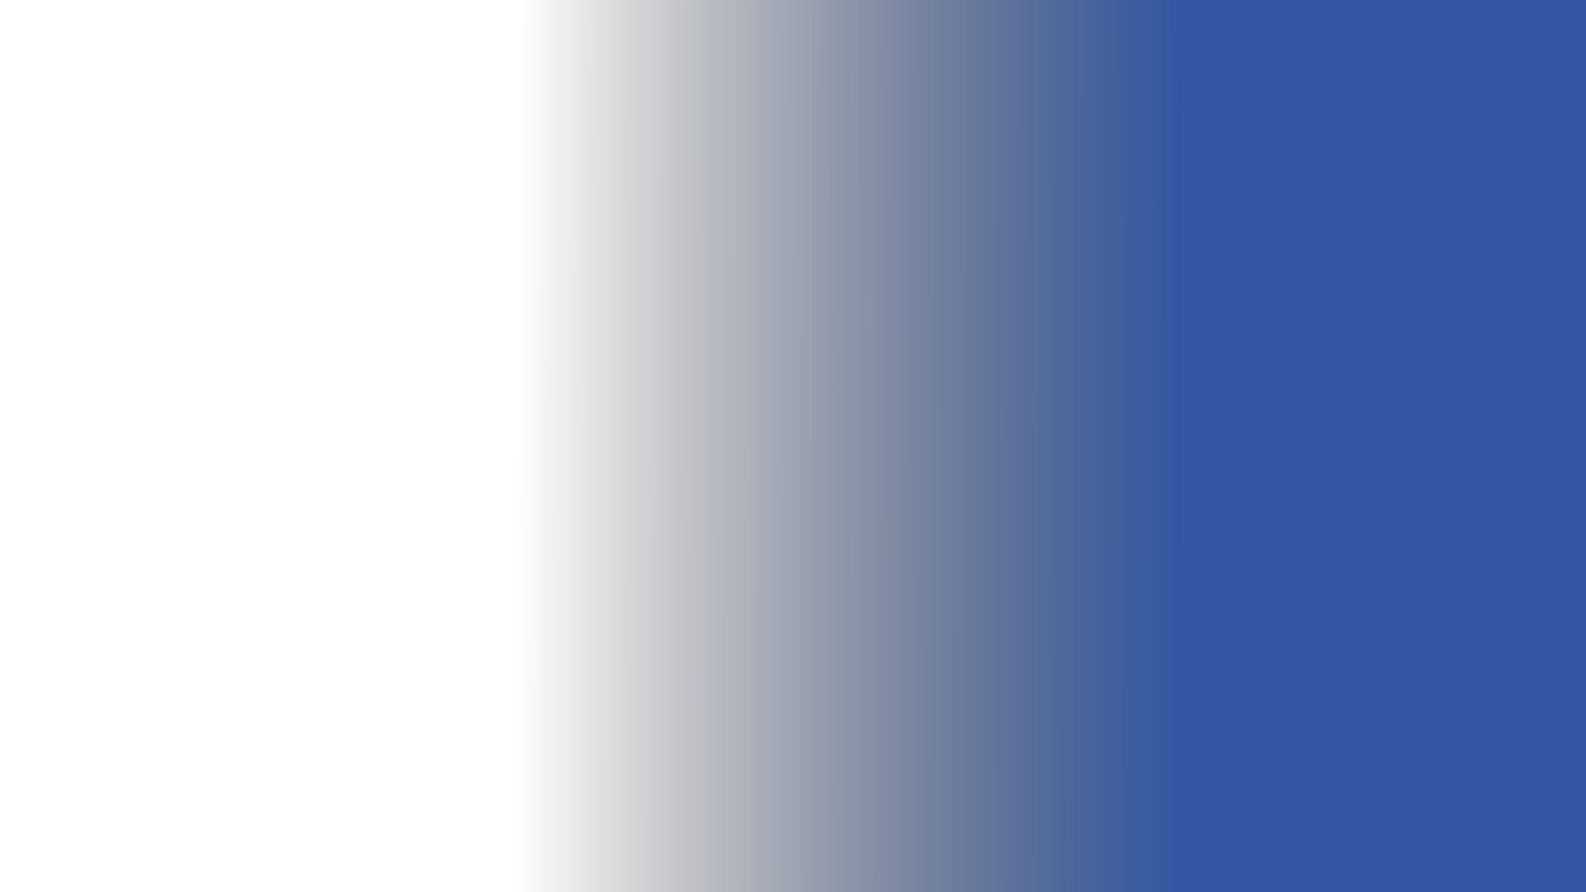
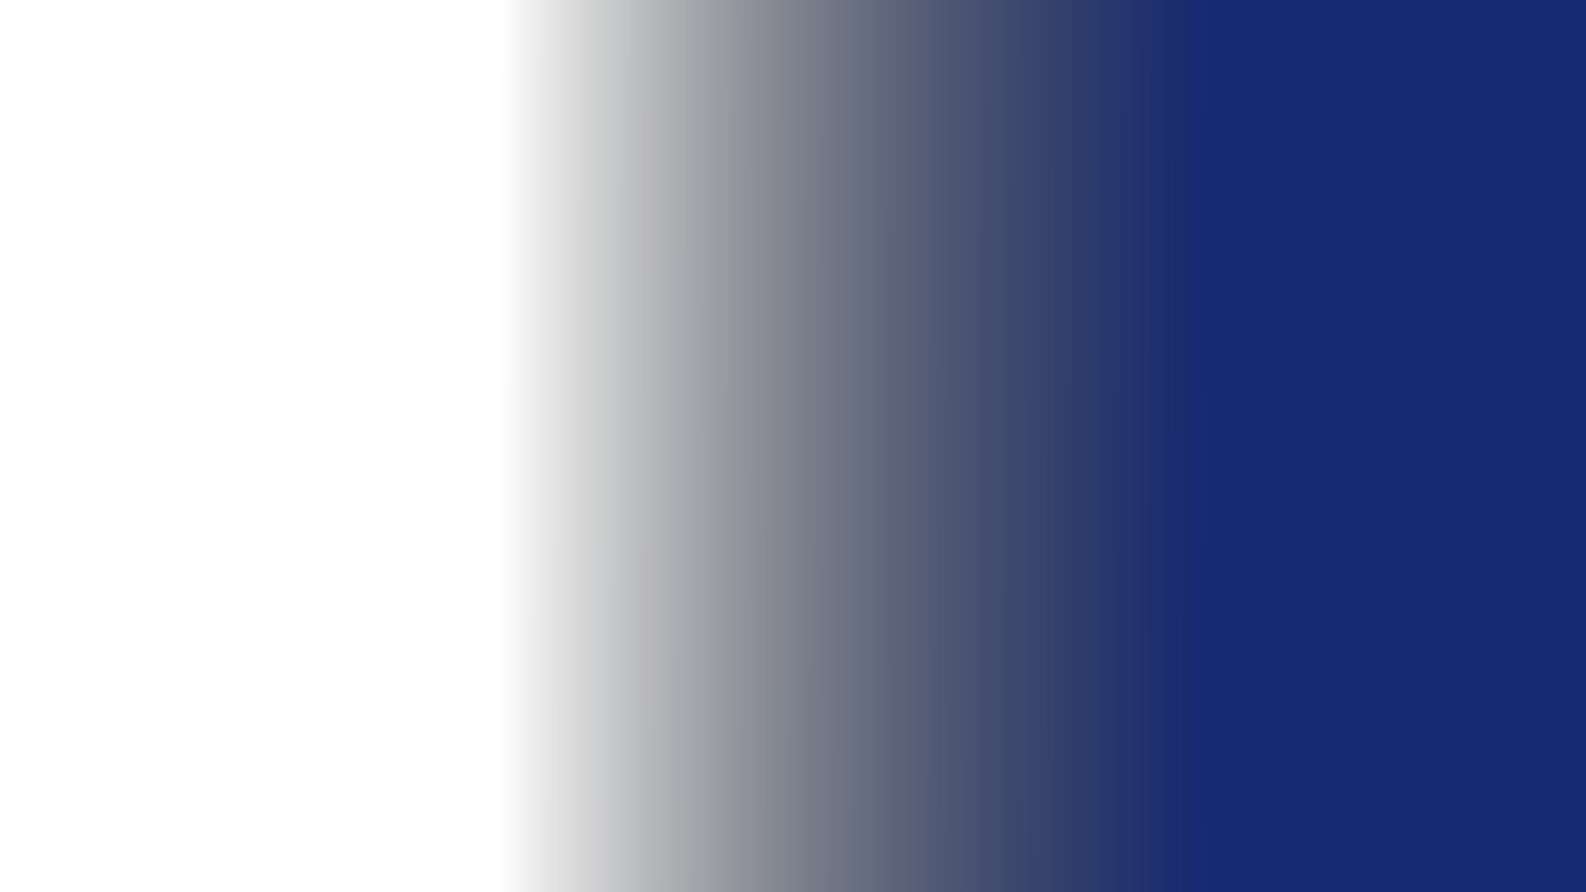
Add edge fade mask functionality and update media controls
- Introduced create_edge_fade_mask function for smoother overlay effects.
- Updated processar_frame to integrate new mask logic.
- Enhanced settings.json with new parameters for mask intensity and rotation.
- Modified index.html to include new slider controls for mask settings.
- Adjusted script.js to handle new slider configurations.
- Updated binary assets for fade and user media.

diff --git a/templates/index.html b/templates/index.html
@@ -112,11 +112,21 @@
                                 <span class="collapsible-icon"></span>
                             </button>
                              <div class="collapsible-content">
+                                <!-- Controles da Mídia Principal -->
                                 <div class="space-y-4">
-                                    <div class="flex flex-col"> <div class="flex justify-between items-center"><label for="escalaFundo" class="text-sm font-medium text-gray-700 dark:text-gray-300">Escala</label><span id="escalaFundoValue" class="text-sm font-mono text-gray-500 dark:text-gray-400">1.00</span></div> <input type="range" id="escalaFundo" name="escalaFundo" min="0.5" max="3" step="0.01" class="control-input w-full"> </div>
-                                    <div class="flex flex-col"> <div class="flex justify-between items-center"><label for="posXFundo" class="text-sm font-medium text-gray-700 dark:text-gray-300">Posição X</label><span id="posXFundoValue" class="text-sm font-mono text-gray-500 dark:text-gray-400">0 px</span></div> <input type="range" id="posXFundo" name="posXFundo" min="-1000" max="1000" step="1" class="control-input w-full"> </div>
-                                    <div class="flex flex-col"> <div class="flex justify-between items-center"><label for="posYFundo" class="text-sm font-medium text-gray-700 dark:text-gray-300">Posição Y</label><span id="posYFundoValue" class="text-sm font-mono text-gray-500 dark:text-gray-400">0 px</span></div> <input type="range" id="posYFundo" name="posYFundo" min="-500" max="500" step="1" class="control-input w-full"> </div>
-                                    <div class="flex flex-col"> <div class="flex justify-between items-center"><label for="blurFundo" class="text-sm font-medium text-gray-700 dark:text-gray-300">Blur</label><span id="blurFundoValue" class="text-sm font-mono text-gray-500 dark:text-gray-400">25</span></div> <input type="range" id="blurFundo" name="blurFundo" min="1" max="151" step="2" class="control-input w-full"> </div>
+                                    <div class="flex flex-col"> <div class="flex justify-between items-center"><label for="escalaFundo" class="text-sm font-medium text-gray-700 dark:text-gray-300">Escala</label><span id="escalaFundoValue" class="text-sm font-mono text-gray-500 dark:text-gray-400">1.00</span></div> <input type="range" id="escalaFundo" name="escalaFundo" min="0.5" max="3" step="0.01" value="1.0" class="control-input w-full"> </div>
+                                    <div class="flex flex-col"> <div class="flex justify-between items-center"><label for="posXFundo" class="text-sm font-medium text-gray-700 dark:text-gray-300">Posição X</label><span id="posXFundoValue" class="text-sm font-mono text-gray-500 dark:text-gray-400">0 px</span></div> <input type="range" id="posXFundo" name="posXFundo" min="-1000" max="1000" step="1" value="0" class="control-input w-full"> </div>
+                                    <div class="flex flex-col"> <div class="flex justify-between items-center"><label for="posYFundo" class="text-sm font-medium text-gray-700 dark:text-gray-300">Posição Y</label><span id="posYFundoValue" class="text-sm font-mono text-gray-500 dark:text-gray-400">0 px</span></div> <input type="range" id="posYFundo" name="posYFundo" min="-500" max="500" step="1" value="0" class="control-input w-full"> </div>
+                                    <div class="flex flex-col"> <div class="flex justify-between items-center"><label for="blurFundo" class="text-sm font-medium text-gray-700 dark:text-gray-300">Blur</label><span id="blurFundoValue" class="text-sm font-mono text-gray-500 dark:text-gray-400">25</span></div> <input type="range" id="blurFundo" name="blurFundo" min="1" max="151" step="2" value="25" class="control-input w-full"> </div>
+                                </div>
+                                <!-- NOVOS CONTROLES: Máscara da Mídia -->
+                                <hr class="my-6 border-gray-200 dark:border-gray-700">
+                                <p class="text-lg font-semibold text-gray-700 dark:text-gray-300 mb-4">Máscara da Mídia</p>
+                                <div class="space-y-4">
+                                    <div class="flex flex-col"> <div class="flex justify-between items-center"><label for="intensidadeMascara" class="text-sm font-medium text-gray-700 dark:text-gray-300">Intensidade do Fade</label><span id="intensidadeMascaraValue" class="text-sm font-mono text-gray-500 dark:text-gray-400">0.00</span></div> <input type="range" id="intensidadeMascara" name="intensidadeMascara" min="0" max="1" step="0.01" value="0" class="control-input w-full"> </div>
+                                    <div class="flex flex-col"> <div class="flex justify-between items-center"><label for="rotacaoMascara" class="text-sm font-medium text-gray-700 dark:text-gray-300">Rotação</label><span id="rotacaoMascaraValue" class="text-sm font-mono text-gray-500 dark:text-gray-400">0°</span></div> <input type="range" id="rotacaoMascara" name="rotacaoMascara" min="-180" max="180" step="1" value="0" class="control-input w-full"> </div>
+                                    <div class="flex flex-col"> <div class="flex justify-between items-center"><label for="posXMascara" class="text-sm font-medium text-gray-700 dark:text-gray-300">Posição X da Máscara</label><span id="posXMascaraValue" class="text-sm font-mono text-gray-500 dark:text-gray-400">0 px</span></div> <input type="range" id="posXMascara" name="posXMascara" min="-1000" max="1000" step="1" value="0" class="control-input w-full"> </div>
+                                    <div class="flex flex-col"> <div class="flex justify-between items-center"><label for="posYMascara" class="text-sm font-medium text-gray-700 dark:text-gray-300">Posição Y da Máscara</label><span id="posYMascaraValue" class="text-sm font-mono text-gray-500 dark:text-gray-400">0 px</span></div> <input type="range" id="posYMascara" name="posYMascara" min="-1000" max="1000" step="1" value="0" class="control-input w-full"> </div>
                                 </div>
                             </div>
                         </div>
@@ -128,7 +138,7 @@
                             </button>
                              <div class="collapsible-content">
                                 <div class="space-y-4">
-                                    <div class="flex flex-col"> <div class="flex justify-between items-center"><label for="escalaLogo" class="text-sm font-medium text-gray-700 dark:text-gray-300">Escala</label><span id="escalaLogoValue" class="text-sm font-mono text-gray-500 dark:text-gray-400">1.00</span></div> <input type="range" id="escalaLogo" name="escalaLogo" min="0.1" max="2.0" step="0.01" class="control-input w-full"> </div>
+                                    <div class="flex flex-col"> <div class="flex justify-between items-center"><label for="escalaLogo" class="text-sm font-medium text-gray-700 dark:text-gray-300">Escala</label><span id="escalaLogoValue" class="text-sm font-mono text-gray-500 dark:text-gray-400">1.00</span></div> <input type="range" id="escalaLogo" name="escalaLogo" min="0.1" max="2.0" step="0.01" value="1.0" class="control-input w-full"> </div>
                                     <div class="flex flex-col"> <div class="flex justify-between items-center"><label for="posXLogo" class="text-sm font-medium text-gray-700 dark:text-gray-300">Posição X</label><span id="posXLogoValue" class="text-sm font-mono text-gray-500 dark:text-gray-400">0 px</span></div> <input type="range" id="posXLogo" name="posXLogo" min="0" max="1920" step="1" class="control-input w-full"> </div>
                                     <div class="flex flex-col"> <div class="flex justify-between items-center"><label for="posYLogo" class="text-sm font-medium text-gray-700 dark:text-gray-300">Posição Y</label><span id="posYLogoValue" class="text-sm font-mono text-gray-500 dark:text-gray-400">0 px</span></div> <input type="range" id="posYLogo" name="posYLogo" min="0" max="1080" step="1" class="control-input w-full"> </div>
                                 </div>
@@ -175,3 +185,4 @@
     <script src="{{ url_for('static', filename='script.js') }}"></script>
 </body>
 </html>
+

diff --git a/static/script.js b/static/script.js
@@ -22,7 +22,12 @@ const sliderConfig = [
     {id: 'posYFundo', valueId: 'posYFundoValue', unit: ' px', decimals: 0}, {id: 'blurFundo', valueId: 'blurFundoValue', unit: '', decimals: 0},
     {id: 'escalaLogo', valueId: 'escalaLogoValue', unit: '', decimals: 2}, {id: 'posXLogo', valueId: 'posXLogoValue', unit: ' px', decimals: 0},
     {id: 'posYLogo', valueId: 'posYLogoValue', unit: ' px', decimals: 0},
-    {id: 'paddingXBox', valueId: 'paddingXBoxValue', unit: ' px', decimals: 0}, {id: 'paddingYBox', valueId: 'paddingYBoxValue', unit: ' px', decimals: 0}
+    {id: 'paddingXBox', valueId: 'paddingXBoxValue', unit: ' px', decimals: 0}, {id: 'paddingYBox', valueId: 'paddingYBoxValue', unit: ' px', decimals: 0},
+    // NOVAS CONFIGURAÇÕES DE SLIDERS DA MÁSCARA
+    {id: 'intensidadeMascara', valueId: 'intensidadeMascaraValue', unit: '', decimals: 2},
+    {id: 'rotacaoMascara', valueId: 'rotacaoMascaraValue', unit: '°', decimals: 0},
+    {id: 'posXMascara', valueId: 'posXMascaraValue', unit: ' px', decimals: 0},
+    {id: 'posYMascara', valueId: 'posYMascaraValue', unit: ' px', decimals: 0}
 ];
 
 // --- Funções Utilitárias ---
@@ -58,7 +63,11 @@ function loadControls() {
         if (formatSettings.hasOwnProperty(input.name)) {
             input.value = formatSettings[input.name];
         } else {
-            input.value = input.defaultValue;
+            // Se o valor não estiver salvo, usa o valor padrão definido no HTML
+            const defaultValue = input.getAttribute('value');
+            if (defaultValue) {
+                 input.value = defaultValue;
+            }
         }
         if (input.type === 'range') {
             updateSliderDisplay(input.id);

diff --git a/app.py b/app.py
@@ -49,6 +49,8 @@ def overlay_image(background, overlay, x, y, scale):
     h_bg, w_bg, _ = background.shape
     overlay_bgr, overlay_alpha = overlay_resized[:, :, 0:3], overlay_resized[:, :, 3] / 255.0
     
+    x, y = int(x), int(y)
+
     x1_dest, y1_dest = max(0, x), max(0, y)
     x2_dest, y2_dest = min(w_bg, x + w_scaled), min(h_bg, y + h_scaled)
     x1_src, y1_src = max(0, -x), max(0, -y)
@@ -56,6 +58,10 @@ def overlay_image(background, overlay, x, y, scale):
     if (x2_dest - x1_dest) > 0 and (y2_dest - y1_dest) > 0:
         dest_w, dest_h = x2_dest - x1_dest, y2_dest - y1_dest
         x2_src, y2_src = x1_src + dest_w, y1_src + dest_h
+        
+        y1_dest, y2_dest, x1_dest, x2_dest = int(y1_dest), int(y2_dest), int(x1_dest), int(x2_dest)
+        y1_src, y2_src, x1_src, x2_src = int(y1_src), int(y2_src), int(x1_src), int(x2_src)
+
         roi = background[y1_dest:y2_dest, x1_dest:x2_dest]
         alpha_mask = cv2.merge([overlay_alpha[y1_src:y2_src, x1_src:x2_src]] * 3)
         bgr_src = overlay_bgr[y1_src:y2_src, x1_src:x2_src]
@@ -86,28 +92,120 @@ def wrap_text(text, font, max_width, tracking=0):
         lines.append(line.strip())
     return lines
 
+# --- NOVA FUNÇÃO PARA CRIAR A MÁSCARA DE BORDA ---
+def create_edge_fade_mask(width, height, rotation, position_offset, fade_intensity):
+    # Cria uma tela grande para evitar cortes na rotação
+    diag = int(np.sqrt(width**2 + height**2))
+    mask = np.zeros((diag, diag), dtype=np.uint8)
+    
+    # A intensidade (0 a 1) controla a largura do fade. Multiplicamos por 2 para um efeito mais visível.
+    fade_width = int(width * fade_intensity * 2)
+    if fade_width < 1: # Se a intensidade for 0, a máscara será totalmente opaca
+        mask.fill(255)
+    else:
+        # A posição (offset) move a "linha imaginária" (o centro do fade)
+        fade_center = (diag // 2) + position_offset
+        opaque_end = fade_center - (fade_width // 2)
+        
+        # --- CORREÇÃO DO ERRO ---
+        # Garante que os índices de slice sejam inteiros
+        opaque_end_int = int(opaque_end)
+        
+        # Preenche a parte totalmente opaca (branca)
+        mask[:, :max(0, opaque_end_int)] = 255
+        
+        # Cria o gradiente (branco para preto)
+        gradient_zone = np.linspace(255, 0, fade_width, dtype=np.uint8)
+        for i in range(fade_width):
+            col_index = opaque_end_int + i
+            if 0 <= col_index < diag:
+                mask[:, col_index] = gradient_zone[i]
+            
+    # Rotaciona a máscara
+    center = (diag // 2, diag // 2)
+    rot_mat = cv2.getRotationMatrix2D(center, rotation, 1.0)
+    rotated_mask = cv2.warpAffine(mask, rot_mat, (diag, diag), flags=cv2.INTER_LINEAR)
+    
+    # Corta o centro da máscara rotacionada para o tamanho da imagem original
+    crop_x = (diag - width) // 2
+    crop_y = (diag - height) // 2
+    final_mask = rotated_mask[crop_y:crop_y + height, crop_x:crop_x + width]
+    
+    return final_mask
+
 def processar_frame(frame_fundo_bgr_original, img_logo, frame_identidade_bgr, img_fade, frame_count, fps, params, final_dimensions, format_key):
     frame_width, frame_height = final_dimensions
     
+    # Camada 1: Fundo Desfocado
     bg_fill = cv2.resize(frame_fundo_bgr_original, (frame_width, frame_height), interpolation=cv2.INTER_LINEAR)
-    blur_amount = max(1, params.get('blurFundo', 25) // 2 * 2 + 1)
+    raw_blur = params.get('blurFundo', 25)
+    blur_amount = max(1, int(raw_blur))
+    if blur_amount % 2 == 0: blur_amount += 1
     canvas = cv2.GaussianBlur(bg_fill, (blur_amount, blur_amount), 0)
 
+    # Camada 2: Mídia Principal
     escala_fundo = params.get('escalaFundo', 1.0)
     h_orig, w_orig, _ = frame_fundo_bgr_original.shape
     w_scaled, h_scaled = int(w_orig * escala_fundo), int(h_orig * escala_fundo)
     if w_scaled > 0 and h_scaled > 0:
         scaled_fg = cv2.resize(frame_fundo_bgr_original, (w_scaled, h_scaled), interpolation=cv2.INTER_AREA)
+        
+        # Garante que a mídia principal tenha 4 canais (BGRA)
+        if scaled_fg.shape[2] == 3:
+            scaled_fg_rgba = cv2.cvtColor(scaled_fg, cv2.COLOR_BGR2BGRA)
+        else:
+            scaled_fg_rgba = scaled_fg
+
+        # --- LÓGICA DE MÁSCARA DE BORDA ATUALIZADA ---
+        intensidade_mascara = params.get('intensidadeMascara', 0.0)
+        # A máscara só é criada se a intensidade for maior que zero
+        if intensidade_mascara > 0:
+            rotacao = params.get('rotacaoMascara', 0.0)
+            # O slider de posição Y não é usado aqui, apenas o X
+            posicao = params.get('posXMascara', 0) 
+            
+            edge_mask = create_edge_fade_mask(w_scaled, h_scaled, rotacao, posicao, intensidade_mascara)
+            
+            b, g, r, a = cv2.split(scaled_fg_rgba)
+            # A nova máscara é mesclada com o canal alfa existente
+            # (útil se a imagem original já tiver transparência)
+            new_alpha = cv2.min(a, edge_mask)
+            scaled_fg_rgba = cv2.merge([b, g, r, new_alpha])
+
+        # Sobrepõe a mídia principal (agora com borda suave) no canvas
         offset_x = params.get('posXFundo', 0); offset_y = params.get('posYFundo', 0)
         pos_x = int((frame_width - w_scaled) / 2) + offset_x
         pos_y = int((frame_height - h_scaled) / 2) + offset_y
-        if scaled_fg.shape[2] == 3: scaled_fg = cv2.cvtColor(scaled_fg, cv2.COLOR_BGR2BGRA)
-        canvas = overlay_image(canvas, scaled_fg, pos_x, pos_y, 1.0)
-    
-    if img_fade.shape[:2] != (frame_height, frame_width): img_fade = cv2.resize(img_fade, (frame_width, frame_height))
-    fade_bgr, fade_alpha_3ch = img_fade[:, :, :3], cv2.merge([img_fade[:, :, 3] / 255.0] * 3)
-    imagem_com_fade = (cv2.multiply(canvas.astype(float), fade_bgr.astype(float), scale=1/255.0) * fade_alpha_3ch + canvas.astype(float) * (1.0 - fade_alpha_3ch)).astype(np.uint8)
+        canvas = overlay_image(canvas, scaled_fg_rgba, pos_x, pos_y, 1.0)
 
+    # Camada 3: Efeito de Vinheta (Fade) - CÓDIGO CORRIGIDO
+    if img_fade.shape[:2] != (frame_height, frame_width):
+        img_fade = cv2.resize(img_fade, (frame_width, frame_height), interpolation=cv2.INTER_AREA)
+
+    # Separa os canais da imagem de fade (BGRA)
+    fade_bgr = img_fade[:, :, :3]
+    fade_alpha = img_fade[:, :, 3]
+
+    # Normaliza as imagens para o intervalo [0, 1] para a multiplicação
+    canvas_float = canvas.astype(np.float32) / 255.0
+    fade_bgr_float = fade_bgr.astype(np.float32) / 255.0
+    fade_alpha_float = fade_alpha.astype(np.float32) / 255.0
+    
+    # Cria uma máscara de alfa com 3 canais para a mesclagem
+    alpha_mask = cv2.merge([fade_alpha_float, fade_alpha_float, fade_alpha_float])
+
+    # Executa a multiplicação (modo de mesclagem "multiply")
+    multiplied_layer = canvas_float * fade_bgr_float
+    
+    # Mescla a camada multiplicada com a original usando o alfa da vinheta
+    # Fórmula: (foreground * alpha) + (background * (1 - alpha))
+    blended_float = (multiplied_layer * alpha_mask) + (canvas_float * (1.0 - alpha_mask))
+    
+    # Converte de volta para 8-bit (0-255)
+    imagem_com_fade = (blended_float * 255.0).astype(np.uint8)
+
+
+    # Camada 4: Logo Urbnews
     if img_logo is not None:
         imagem_com_fade = overlay_image(imagem_com_fade, img_logo, params.get('posXLogo', 0), params.get('posYLogo', 0), params.get('escalaLogo', 1.0))
     
@@ -116,47 +214,22 @@ def processar_frame(frame_fundo_bgr_original, img_logo, frame_identidade_bgr, im
     font_retranca = ImageFont.truetype(params['fontPath'], int(40 * params.get('escalaRetranca', 1.0)))
     font_titulo = ImageFont.truetype(params['fontPath'], params.get('fontSizeTitulo', 85))
     
-    # --- Início da Correção do Box da Retranca ---
-    # Define o padding (margem interna) padrão
-    padding_x = 25
-    padding_y = 12
-    ajustebox = 15
+    # Camadas 5 e 6: Box da Tag e Texto da Tag
+    padding_x = 25; padding_y = 12; ajustebox = 4
+    if format_key == "800x600": padding_x = 12; padding_y = 5; ajustebox = 3
 
-    # VERIFICA SE O FORMATO É O BOX E, SE FOR, USA VALORES DE PADDING PERSONALIZADOS
-    # Você pode ajustar estes valores manualmente como quiser.
-    if format_key == "800x600":
-        padding_x = 12
-        padding_y = 5
-        ajustebox = 9
-
-    # Calcula as dimensões exatas do texto usando os métodos mais precisos da Pillow
     if hasattr(draw, 'textbbox'):
-        # textbbox retorna (esquerda, topo, direita, fundo) da caixa que contém o texto
         bbox = draw.textbbox((0, 0), params['retranca'], font=font_retranca)
-        text_width = bbox[2] - bbox[0]
-        text_height = bbox[3] - bbox[1]
-        # O (posX, posY) dos sliders refere-se ao canto superior esquerdo do texto
-        text_x = params['posXRetranca']
-        text_y = params['posYRetranca'] # - bbox[1] #Adiciona o offset do topo para um alinhamento preciso
-    else: # Fallback para versões mais antigas
-        text_width, text_height = draw.textsize(params['retranca'], font=font_retranca)
-        text_x = params['posXRetranca']
-        text_y = params['posYRetranca']
+        text_width, text_height = bbox[2] - bbox[0], bbox[3] - bbox[1]
+    else: text_width, text_height = draw.textsize(params['retranca'], font=font_retranca)
+    text_x, text_y = params['posXRetranca'], params['posYRetranca']
     
-    # Calcula as coordenadas da caixa com base na posição do texto e no padding
-    box_x1 = text_x - padding_x
-    box_y1 = text_y - padding_y
-    box_x2 = text_x + text_width + padding_x
-    box_y2 = text_y + text_height + padding_y + ajustebox
-
-    # Desenha o retângulo branco
+    box_x1, box_y1 = text_x - padding_x, text_y - padding_y
+    box_x2, box_y2 = text_x + text_width + padding_x, text_y + text_height + padding_y + ajustebox
     draw.rectangle([(box_x1, box_y1), (box_x2, box_y2)], fill="white")
-    
-    # Desenha o texto.
     draw.text((text_x, text_y), params['retranca'], font=font_retranca, fill="#005291")
-    # --- Fim da Correção do Box da Retranca ---
 
-
+    # Camada 7: Texto do Título
     max_width = frame_width - params.get('posXTitulo', 1000) - 50
     linhas_titulo = wrap_text(params['titulo'], font_titulo, max_width, tracking=params.get('letterSpacingTitulo', 0))
     y_text = params.get('posYTitulo', 280)
@@ -167,6 +240,7 @@ def processar_frame(frame_fundo_bgr_original, img_logo, frame_identidade_bgr, im
 
     frame_com_texto = cv2.cvtColor(np.array(pil_img), cv2.COLOR_RGB2BGR)
 
+    # Camada 8: Identidade Visual Animada
     if frame_identidade_bgr is not None:
         if frame_identidade_bgr.shape[:2] != (frame_height, frame_width): frame_identidade_bgr = cv2.resize(frame_identidade_bgr, (frame_width, frame_height))
         fade_start_time, fade_end_time = 3.0, 3.5
@@ -177,6 +251,7 @@ def processar_frame(frame_fundo_bgr_original, img_logo, frame_identidade_bgr, im
         return cv2.addWeighted(frame_identidade_bgr, fade_opacity, frame_com_texto, 1.0 - fade_opacity, 0)
     return frame_com_texto
 
+# (O resto do arquivo continua igual, sem alterações)
 def render_video_for_format(format_key, assets, all_params):
     try:
         format_params = all_params['formats'][format_key]
@@ -275,8 +350,9 @@ def preview_frame_endpoint():
             fade_img_path = os.path.join(ASSETS_FOLDER, assets['fade'])
             
             params.update(settings)
-            params.update(settings.get('formats', {}).get(format_key, {}))
-            params['fontPath'] = font_path
+            format_specific_settings = settings.get('formats', {}).get(format_key, {})
+            combined_params = {**format_specific_settings, **params}
+            combined_params['fontPath'] = font_path
 
             img_logo = cv2.imread(logo_img_path, cv2.IMREAD_UNCHANGED)
             img_fade = cv2.imread(fade_img_path, cv2.IMREAD_UNCHANGED)
@@ -289,11 +365,13 @@ def preview_frame_endpoint():
             else:
                 frame_fundo = cv2.imread(user_media_path)
 
-            final_frame = processar_frame(frame_fundo, img_logo, None, img_fade, 5 * fps, fps, params, final_dimensions, format_key)
+            final_frame = processar_frame(frame_fundo, img_logo, None, img_fade, 5 * fps, fps, combined_params, final_dimensions, format_key)
             
             cv2.imwrite(PREVIEW_FILE_PATH, final_frame)
             return jsonify({'previewUrl': '/static/preview.jpg'})
         except Exception as e:
+            import traceback
+            traceback.print_exc()
             print(f"[ERRO] Preview: {e}")
             return jsonify({'error': str(e)}), 500
 
@@ -308,23 +386,24 @@ def generate_video_endpoint():
         generated_files = [res["path"] for res in base_results if "path" in res]
         derived_results = []
 
-        # Lógica de pós-produção para formatos derivados
         for result in base_results:
             if "path" not in result: continue
 
-            base_format = result["base_format"]
+            base_format_label = result.get("base_format")
+            if not base_format_label: continue
+            
             source_path = result["path"]
             
             derived_map = {
                 "WIDEFULLHD": [("WIDE", (1280, 720), 10), ("TER", (1280, 720), 15)],
-                "MUB": [("LED4", (864, 288), 10)],
+                "MUB-FOR-SP": [("LED4", (864, 288), 10)],
                 "VERTFULLHD": [("VERT", (608, 1080), 10)]
             }
 
-            if base_format in derived_map:
-                for label, dims, duration in derived_map[base_format]:
+            if base_format_label in derived_map:
+                for label, dims, duration in derived_map[base_format_label]:
                     try:
-                        new_filename = os.path.basename(source_path).replace(base_format, label)
+                        new_filename = os.path.basename(source_path).replace(base_format_label, label)
                         new_path = os.path.join(OUTPUT_FOLDER, new_filename)
                         
                         reader = cv2.VideoCapture(source_path)
@@ -341,6 +420,7 @@ def generate_video_endpoint():
                                 if not ret: break
                                 last_frame = frame
                             
+                            if last_frame is None: continue
                             resized_frame = cv2.resize(last_frame, dims, interpolation=cv2.INTER_AREA)
                             writer.write(resized_frame)
 
@@ -354,7 +434,6 @@ def generate_video_endpoint():
         all_results = base_results + derived_results
         generated_files.extend([res["path"] for res in derived_results if "path" in res])
 
-        # Criação do ficheiro ZIP
         zip_url = None
         if generated_files:
             date_str = datetime.now().strftime("%d%m%Y_%H%M")
